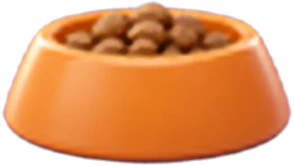
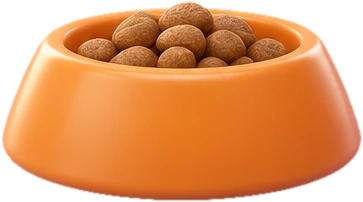
선명한 원본(1264px)으로 고양이 그림 전부 교체, 고양이 발밑 그림자 추가
Claude-Session: https://claude.ai/code/session_01TbHN1W9UVSu49bGnHJEbMQ

Changed region(s): [[0.0, 0.0, 1.0, 0.994], [0.7041, 0.1807, 0.7653, 0.2108]]

diff --git a/www/style.css b/www/style.css
@@ -280,10 +280,10 @@ button{cursor:pointer}
 @media (prefers-color-scheme: dark){.brand{background:linear-gradient(120deg,#B9ADFF 0%,#CDB8FF 55%,#FFB8A0 100%);-webkit-background-clip:text;background-clip:text}}
 
 /* 고양이 그림(인트로·로그인 공용) */
-.nk-art{position:relative;aspect-ratio:679/915}
+.nk-art{position:relative;aspect-ratio:855/1142}
 .nk-art img{position:absolute;display:block;height:auto;user-select:none;-webkit-user-drag:none;pointer-events:none}
 .nk-cat{left:0;top:0;width:100%;transform-origin:50% 96%;filter:drop-shadow(0 10px 18px rgba(75,59,184,.28));animation:nkCatIn .8s .45s var(--spring) both,nkBreath 3s 1.4s ease-in-out infinite}
-.nk-bowl{left:29.31%;top:81.86%;width:43.3%;filter:drop-shadow(0 6px 10px rgba(180,80,40,.28));animation:nkBowlIn .6s .25s var(--spring) both}
+.nk-bowl{left:29.59%;top:82.31%;width:42.46%;filter:drop-shadow(0 6px 10px rgba(180,80,40,.28));animation:nkBowlIn .6s .25s var(--spring) both}
 .nk-shadow{position:absolute;left:10%;right:10%;bottom:-2%;height:8%;border-radius:50%;background:radial-gradient(closest-side,rgba(75,59,184,.32),rgba(75,59,184,0));animation:nkFade .6s .5s both}
 .nk-heart{position:absolute;width:9%;fill:#FFB8A0;opacity:0;filter:drop-shadow(0 2px 4px rgba(255,120,100,.35))}
 .nk-heart.h1{left:76%;top:14%;animation:nkHeart 3.2s 1.5s ease-out infinite}
@@ -295,3 +295,5 @@ button{cursor:pointer}
 @keyframes nkHeart{0%{opacity:0;transform:translateY(0) scale(.5)}18%{opacity:1;transform:translateY(-10px) scale(1)}70%{opacity:.85}100%{opacity:0;transform:translateY(-46px) scale(.9) rotate(12deg)}}
 .auth-art .nk-heart,.auth-hero.compact .nk-shadow{display:none}
 @media (prefers-reduced-motion:reduce){.nk-art *{animation:none!important;opacity:1}.nk-heart{display:none}}
+/* 고양이 발밑 그림자 (원본 그림자를 지웠으므로 떠 보이지 않게) */
+.nk-art::before{content:"";position:absolute;left:16%;right:10%;top:77.5%;height:6.5%;border-radius:50%;background:radial-gradient(closest-side,rgba(75,59,184,.34),rgba(75,59,184,0));animation:nkFade .6s .6s both}

diff --git a/www/index.html b/www/index.html
@@ -15,8 +15,8 @@
   <div class="intro-veil"></div>
   <div class="intro-art nk-art" role="img" aria-label="밥그릇 앞에 앉은 하얀 아기 고양이">
     <span class="nk-shadow"></span>
-    <img class="nk-cat" src="img/nk-cat.webp" alt="" width="679" height="749" decoding="sync" fetchpriority="high">
-    <img class="nk-bowl" src="img/nk-bowl.webp" alt="" width="294" height="166" decoding="sync" fetchpriority="high">
+    <img class="nk-cat" src="img/nk-cat.webp" alt="" width="855" height="932" decoding="sync" fetchpriority="high">
+    <img class="nk-bowl" src="img/nk-bowl.webp" alt="" width="363" height="202" decoding="sync" fetchpriority="high">
     <svg class="nk-heart h1" viewBox="0 0 24 22" aria-hidden="true"><path d="M12 21C5 15.5 1 12 1 7a5.5 5.5 0 0 1 11-1 5.5 5.5 0 0 1 11 1c0 5-4 8.5-11 14z"/></svg>
     <svg class="nk-heart h2" viewBox="0 0 24 22" aria-hidden="true"><path d="M12 21C5 15.5 1 12 1 7a5.5 5.5 0 0 1 11-1 5.5 5.5 0 0 1 11 1c0 5-4 8.5-11 14z"/></svg>
   </div>

diff --git a/www/auth.js b/www/auth.js
@@ -67,7 +67,7 @@ function say(msg, kind) { notice = msg || ''; noticeKind = kind || 'info'; rende
 
 /* ---------- 화면 ---------- */
 const catSvg = () => '<div class="auth-art nk-art" role="img" aria-label="밥그릇 앞에 앉은 하얀 아기 고양이"><span class="nk-shadow"></span>'
-  + '<img class="nk-cat" src="img/nk-cat.webp" alt="" width="679" height="749"><img class="nk-bowl" src="img/nk-bowl.webp" alt="" width="294" height="166"></div>';
+  + '<img class="nk-cat" src="img/nk-cat.webp" alt="" width="855" height="932"><img class="nk-bowl" src="img/nk-bowl.webp" alt="" width="363" height="202"></div>';
 let CAT = '';
 
 const KAKAO_ICON = '<svg width="20" height="20" viewBox="0 0 24 24" aria-hidden="true"><path fill="#000" d="M12 3.2C6.5 3.2 2 6.7 2 11c0 2.8 1.9 5.2 4.7 6.6l-1 3.7c-.1.4.3.7.6.5l4.4-2.9c.4 0 .9.1 1.3.1 5.5 0 10-3.5 10-7.9S17.5 3.2 12 3.2z"/></svg>';

diff --git a/docs/index.html b/docs/index.html
@@ -179,7 +179,7 @@
           <div class="card"><b>공원 벤치 뒤 급식소</b>오늘 저녁 7:00 알림 · 단골 3마리<div class="chips"><span class="chip">치즈</span><span class="chip">고등어</span><span class="chip">삼색이</span></div></div>
           <div class="tabs"><span class="on">지도</span><span>일정</span><span>함께</span><span>이웃</span><span>탐정</span></div>
         </div>
-        <div class="hero-cat"><img class="hero-art" src="nk-cat-full.webp" width="679" height="915" alt="밥그릇 앞에 앉은 하얀 아기 고양이"></div>
+        <div class="hero-cat"><img class="hero-art" src="nk-cat-full.webp" width="855" height="1142" alt="밥그릇 앞에 앉은 하얀 아기 고양이"></div>
       </div>
     </div>
   </div>
